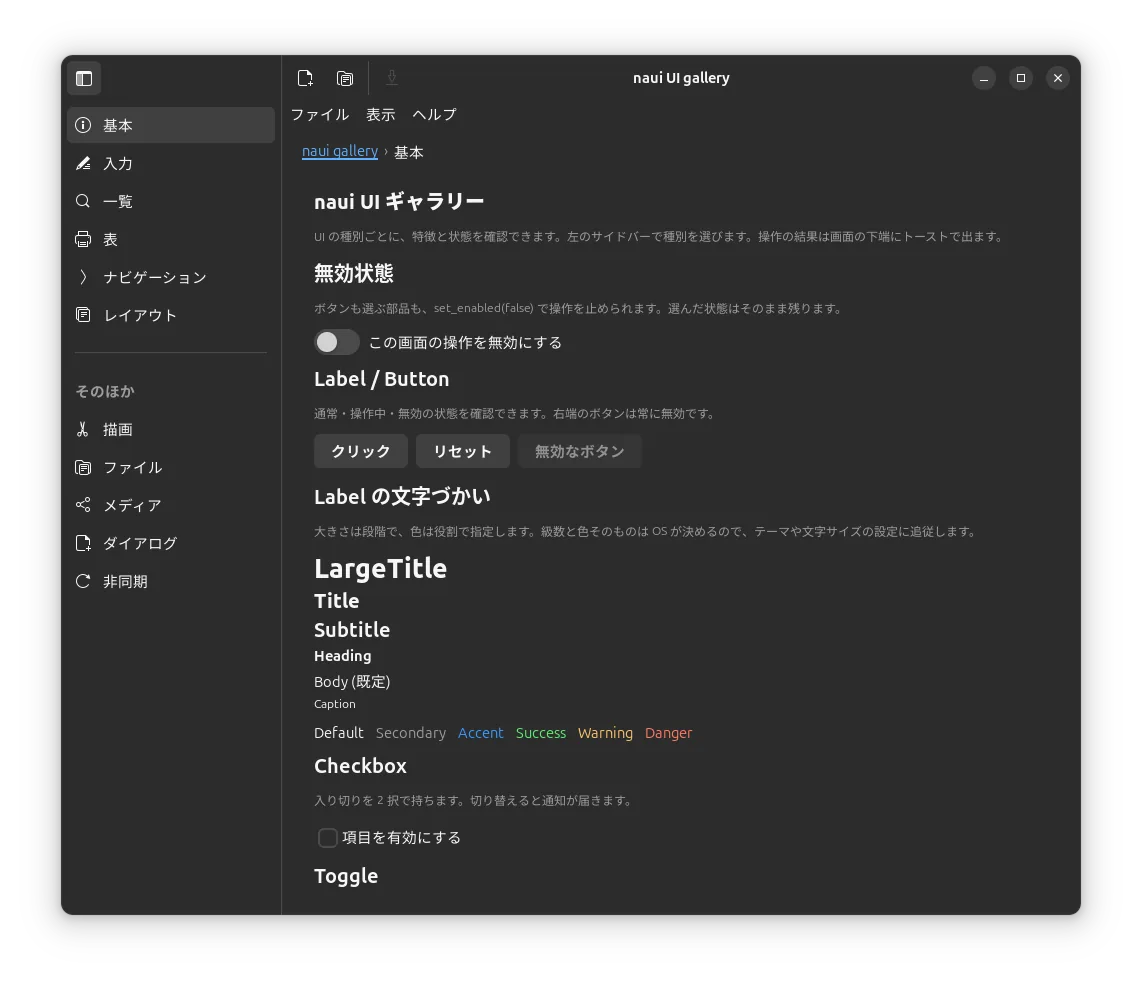
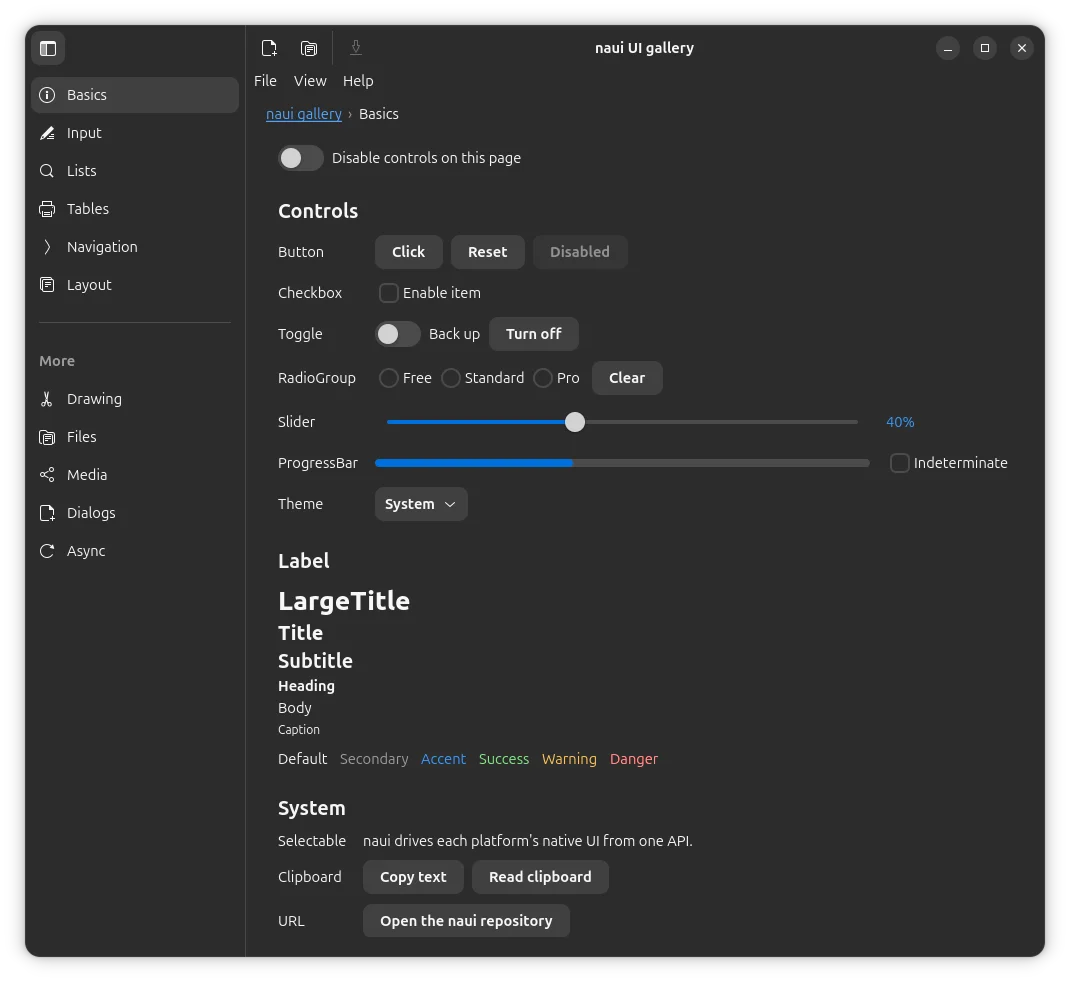
README のスクリーンショットを新しい gallery に差し替え、撮った環境を更新する

diff --git a/README.md b/README.md
@@ -21,10 +21,10 @@ provides.
 The same Gallery code running on each platform. Each one looks the way its OS
 normally does.
 
-| Windows 11 Pro 25H2 (Windows App SDK 2.5.1) | macOS Tahoe 26.6.2 |
+| Windows 11 Pro 26H2 (Windows App SDK 2.5.1) | macOS Golden Gate 27.0.1 |
 | --- | --- |
 | ![Gallery running on Windows (WinUI 3)](docs/screenshots/windows.webp) | ![Gallery running on macOS (AppKit)](docs/screenshots/macos.webp) |
-| **Ubuntu 24.04.5 LTS** | **Safari 26.6.2** |
+| **Ubuntu 26.04.1 LTS** | **Safari 27.0.1** |
 | ![Gallery running on Linux (GTK4 / libadwaita)](docs/screenshots/linux.webp) | ![Gallery running on the Web (DOM)](docs/screenshots/web.webp) |
 
 ## Features
